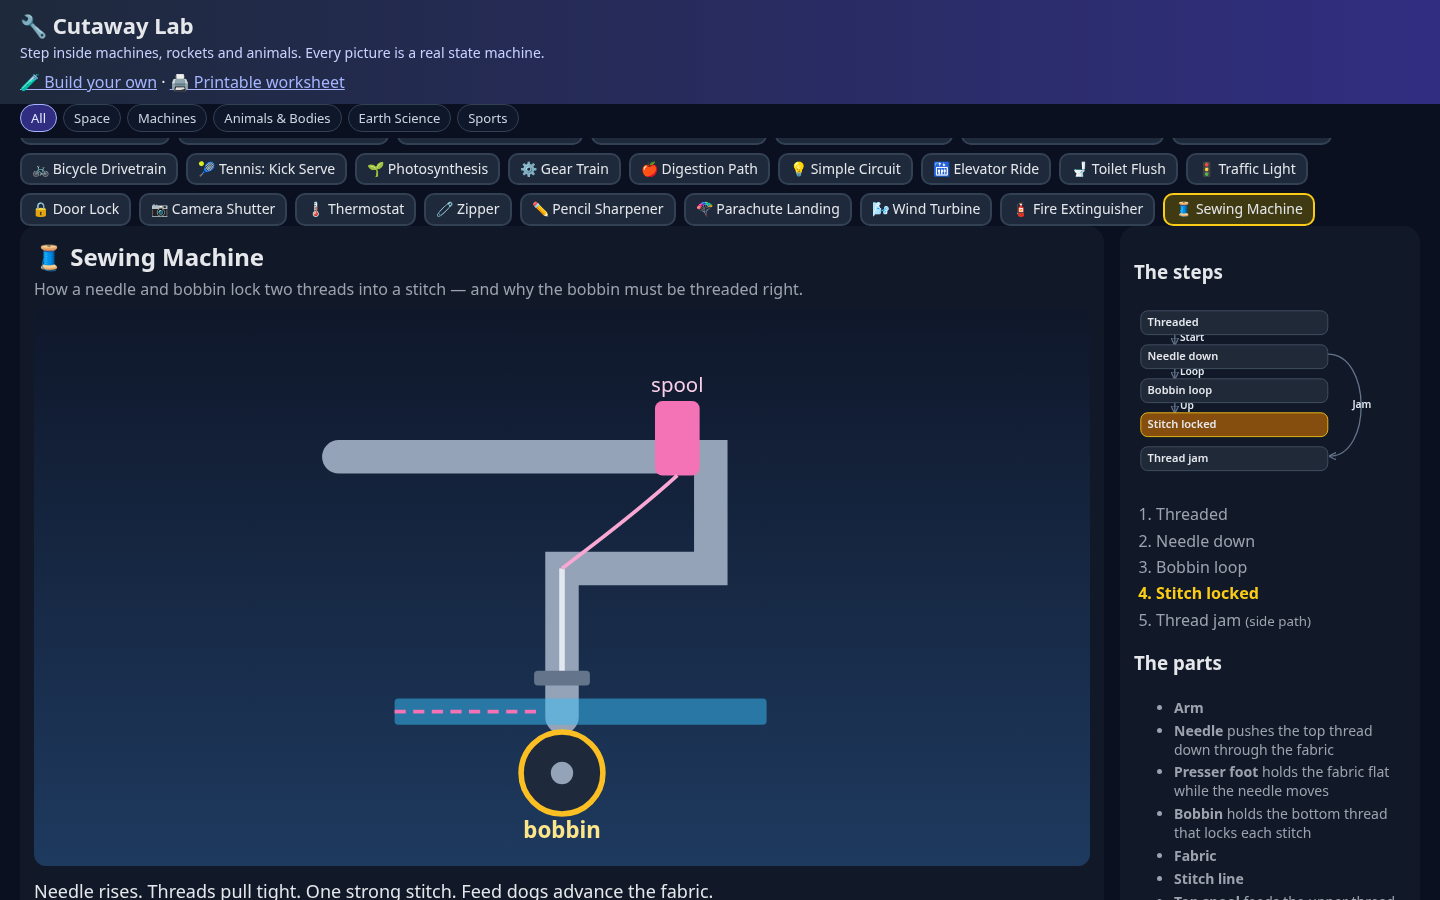
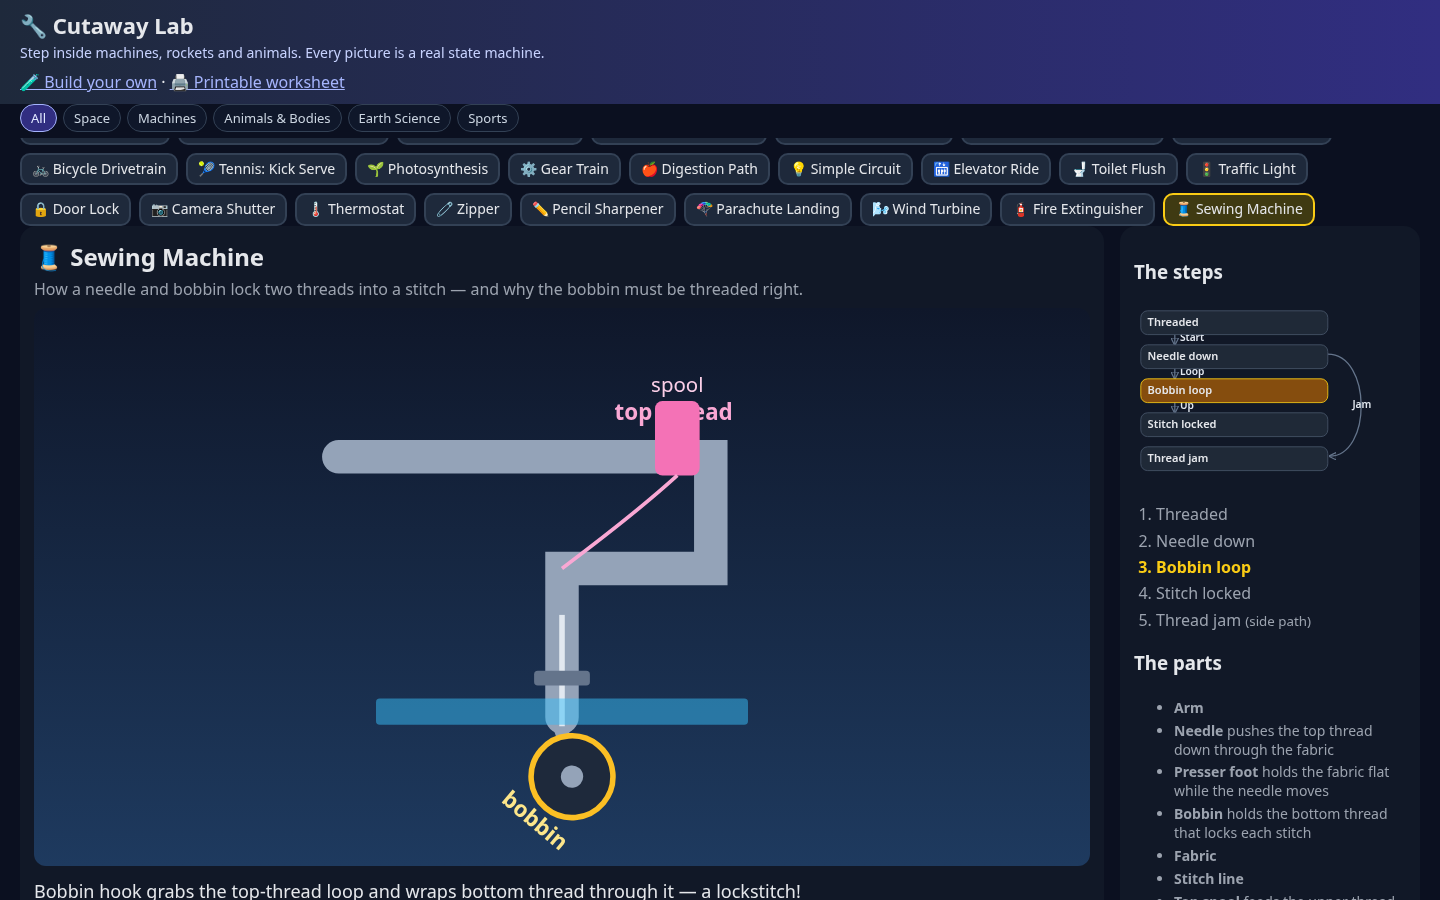
v1.0: sewing top-thread + thermostat furnace captions
- Every fleet machine now has ≥2 on-stage text labels
- Furnace caption appears while heating

diff --git a/machines/thermostat.js b/machines/thermostat.js
@@ -13,6 +13,8 @@ export default {
       svg: '<circle cx="200" cy="220" r="14" fill="#22c55e" stroke="#86efac" stroke-width="2"/><text x="200" y="250" text-anchor="middle" fill="#86efac" font-size="12">sensor</text>', explode: [0, 40] },
     { id: 'relay', label: 'Heat relay', job: 'switches the furnace on or off',
       svg: '<rect x="130" y="255" width="140" height="18" rx="4" fill="#334155"/><text x="200" y="268" text-anchor="middle" fill="#94a3b8" font-size="11">relay OFF</text>', explode: [-40, 20] },
+    { id: 'lblFurnace', label: 'Furnace label',
+      svg: '<text x="320" y="200" text-anchor="middle" fill="#fb923c" font-size="12" font-weight="700">furnace</text>', pose: { opacity: 0 } },
     { id: 'relayOn', label: 'Relay on',
       svg: '<rect x="130" y="255" width="140" height="18" rx="4" fill="#854d0e"/><text x="200" y="268" text-anchor="middle" fill="#fde68a" font-size="11" font-weight="700">relay ON</text>', pose: { opacity: 0 } },
     { id: 'flame', label: 'Furnace',
@@ -34,7 +36,7 @@ export default {
       label: 'Heating',
       caption: 'Furnace runs. Warm air raises the room toward 70°.',
       on: { REACH: 'satisfied' },
-      parts: { flame: { opacity: 1 }, relayOn: { opacity: 1 }, relay: { opacity: 0 } },
+      parts: { lblFurnace: { opacity: 1 },  flame: { opacity: 1 }, relayOn: { opacity: 1 }, relay: { opacity: 0 } },
     },
     satisfied: {
       label: 'Setpoint reached',

diff --git a/machines/sewing.js b/machines/sewing.js
@@ -7,6 +7,8 @@ export default {
       svg: '<path d="M80 80 H280 V140 H200 V220" stroke="#94a3b8" stroke-width="18" fill="none" stroke-linecap="round"/>' },
     { id: 'needle', label: 'Needle', job: 'pushes the top thread down through the fabric',
       svg: '<line x1="200" y1="140" x2="200" y2="200" stroke="#e2e8f0" stroke-width="3"/><polygon points="195,200 200,215 205,200" fill="#94a3b8"/>', explode: [0, -40] },
+    { id: 'lblTop', label: 'Top thread label',
+      svg: '<text x="260" y="60" text-anchor="middle" fill="#f9a8d4" font-size="12" font-weight="700">top thread</text>' },
     { id: 'presser', label: 'Presser foot', job: 'holds the fabric flat while the needle moves',
       svg: '<rect x="185" y="195" width="30" height="8" rx="2" fill="#64748b"/>', explode: [40, 0] },
     { id: 'bobbin', label: 'Bobbin', job: 'holds the bottom thread that locks each stitch',
